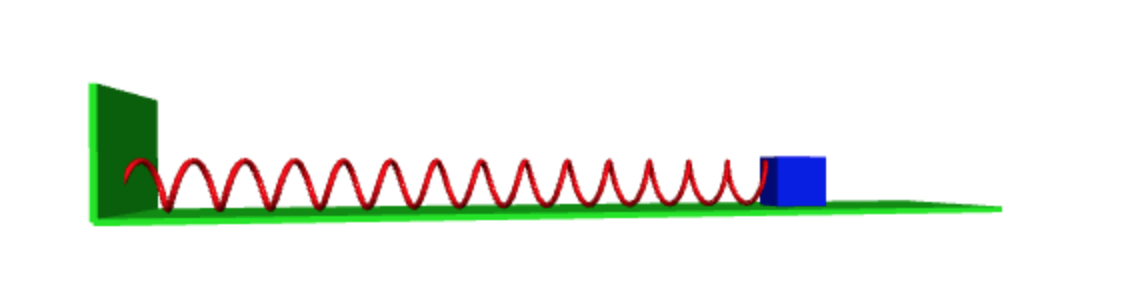
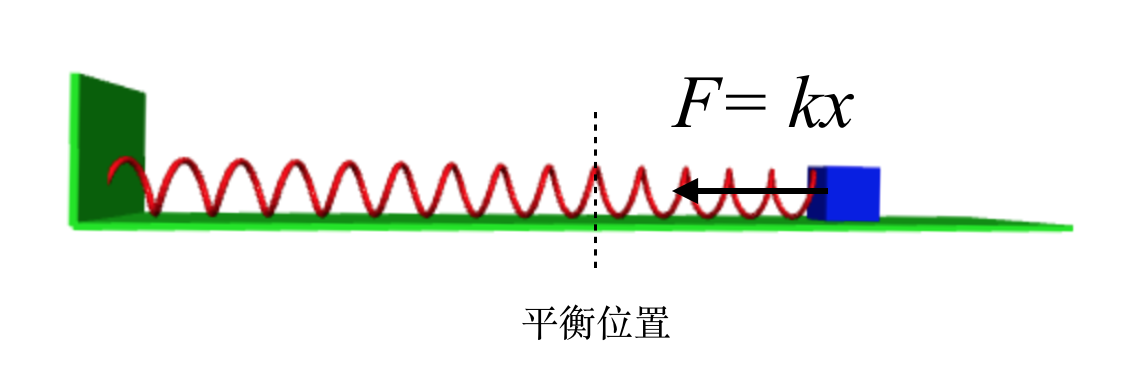
feat: fix errors

Changed region(s): [[0.0309, 0.1776, 0.9568, 0.7697], [0.5864, 0.2072, 0.7407, 0.3553], [0.463, 0.7993, 0.5864, 0.9178]]

diff --git a/_posts/2020-04-16-oscillation-via-vpython-1.md b/_posts/2020-04-16-oscillation-via-vpython-1.md
@@ -13,14 +13,14 @@ description: 用 Vpython 来模拟弹簧振子的简谐振动
 ## 1. 简谐振动概念
 
 简谐振动是最简单最基本的振动。首先明确几个概念：
-1. 质点在某位置所受的力（或沿运动方向受的力）等于零，则此位置称为平衡位置。
-2. 若作用于致电的力总与质点相对于平衡位置的位移成正比，且只系i昂平衡位置，则此作用力称线性回复力。
+1. 质点在某位置所受的力（或沿运动方向受的力）等于零，则此位置称为**平衡位置**。
+2. 若作用于质点的力总与质点相对于平衡位置的位移成正比，且指向平衡位置，则此作用力称线性**回复力**。
 
 > 质点在线性回复力作用下围绕平衡位置的运动叫做简谐振动。
 
 弹簧振子和小角度的单摆运动，都是简谐运动。
 
-本文用 Vpython 模拟理想弹簧振子模型（即不考虑阻力、弹簧质量等因素），如图所示，小球受到的弹力是始终指向平衡位置，并且大小与弹簧的伸长量成正比，小球所做的运动是简谐运动。
+本文用 VPython 模拟理想弹簧振子模型（即不考虑阻力、弹簧质量等因素），如图所示，小球受到的弹力是始终指向平衡位置，并且大小与弹簧的伸长量成正比，小球所做的运动是简谐运动。
 
 <img src='/assets/images/2020-04-16-oscillation-via-vpython-1/fig.png' style='zoom:40%; margin: 0 auto; display: block;'/>
 
@@ -39,9 +39,9 @@ $$
 $$ 
 
 
-## 2. Vpython 模拟
+## 2. VPython 模拟
 
-Vpython 是一个基于 Python 开发的可视化软件库，可以方便模拟多种物理过程。本文使用了 Vpython 库进行模拟弹簧斜振子的运动。
+VPython 是一个基于 Python 开发的可视化软件库，可以方便模拟多种物理过程。本文使用了 VPython 库进行模拟弹簧斜振子的运动。
 
 ### 2.1 前置工作
 
@@ -67,12 +67,13 @@ $$
 
 下面是弹簧振子模拟的主要代码。
 
-> 要运行该代码，需要安装 Python 和 vpython 的库。
+> 要运行该代码，需要安装 Python 和 VPython 的库。
 
 ```python
 # -*- coding: utf-8 -*-
 # @Author: jiap
 # @Wechat: 物理说 (Physicsay)
+# @Website: www.physicsay.com
 
 from vpython import *
 
@@ -97,10 +98,6 @@ while (t < 50):
 ```
 
 ## 思考：
-1. 在这个模型中，改变什么因此，才能改变弹簧振子的振幅和周期？  
+1. 在这个模型中，改变什么因素，才能改变弹簧振子的振幅和周期？  
 2. 整个系统动能和势能之前是如何转换的？  
 3. 如果平面有摩擦，滑块的运动是怎样的？  
-
-
-
-
